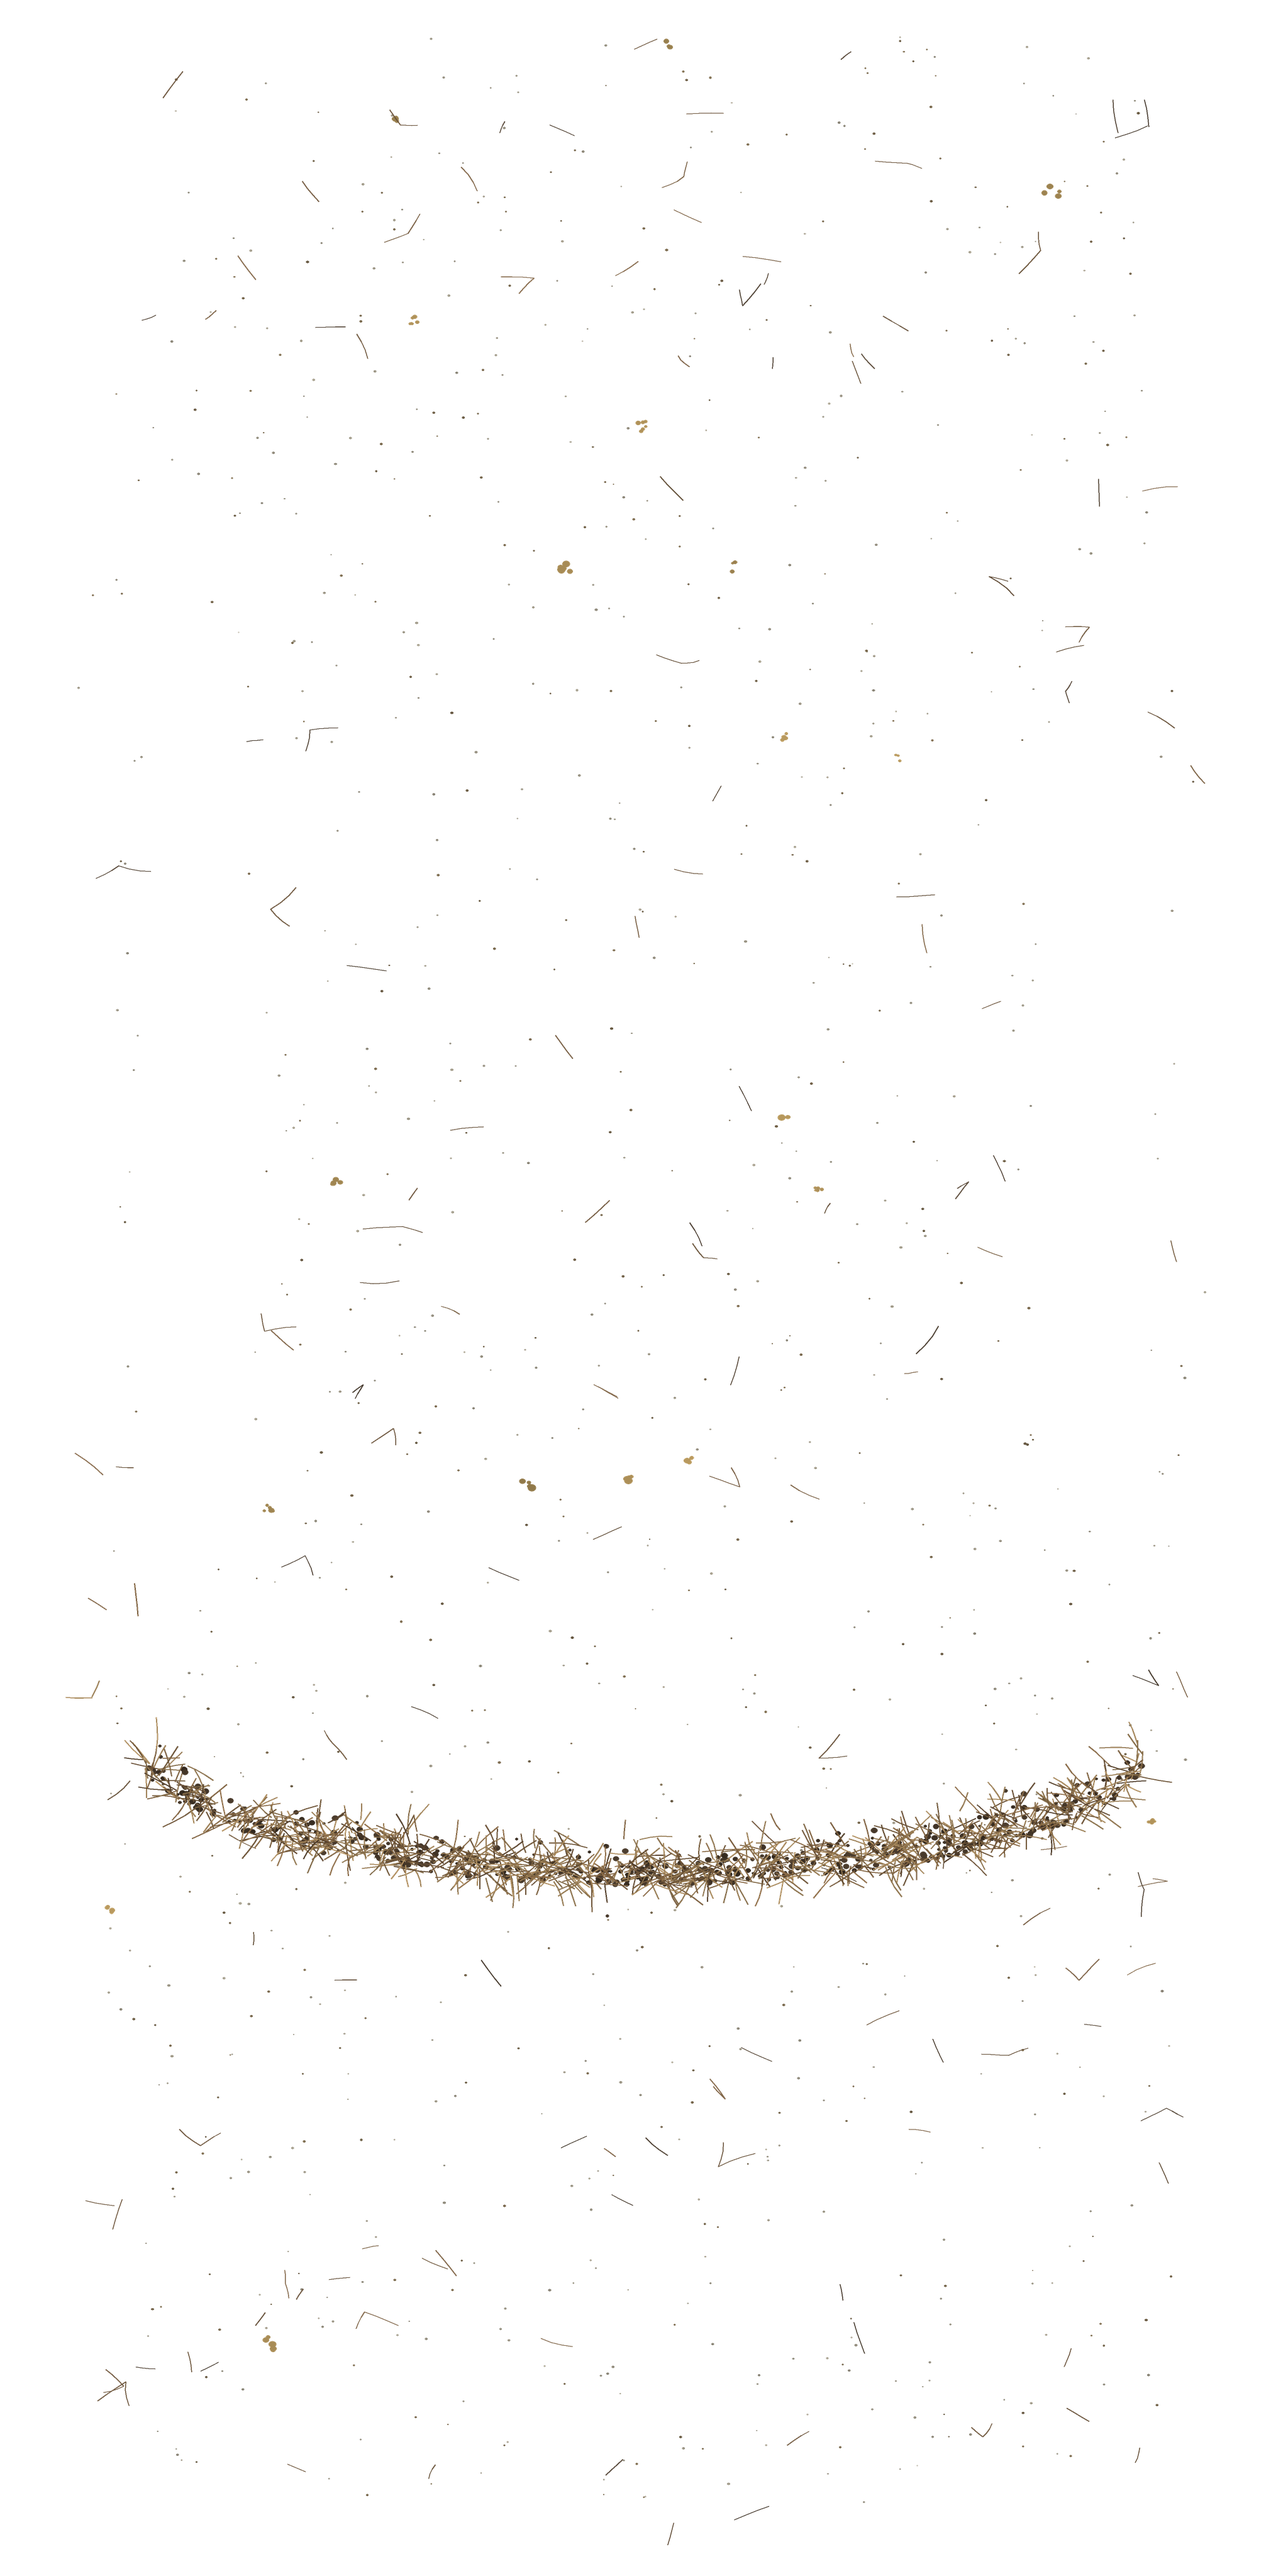
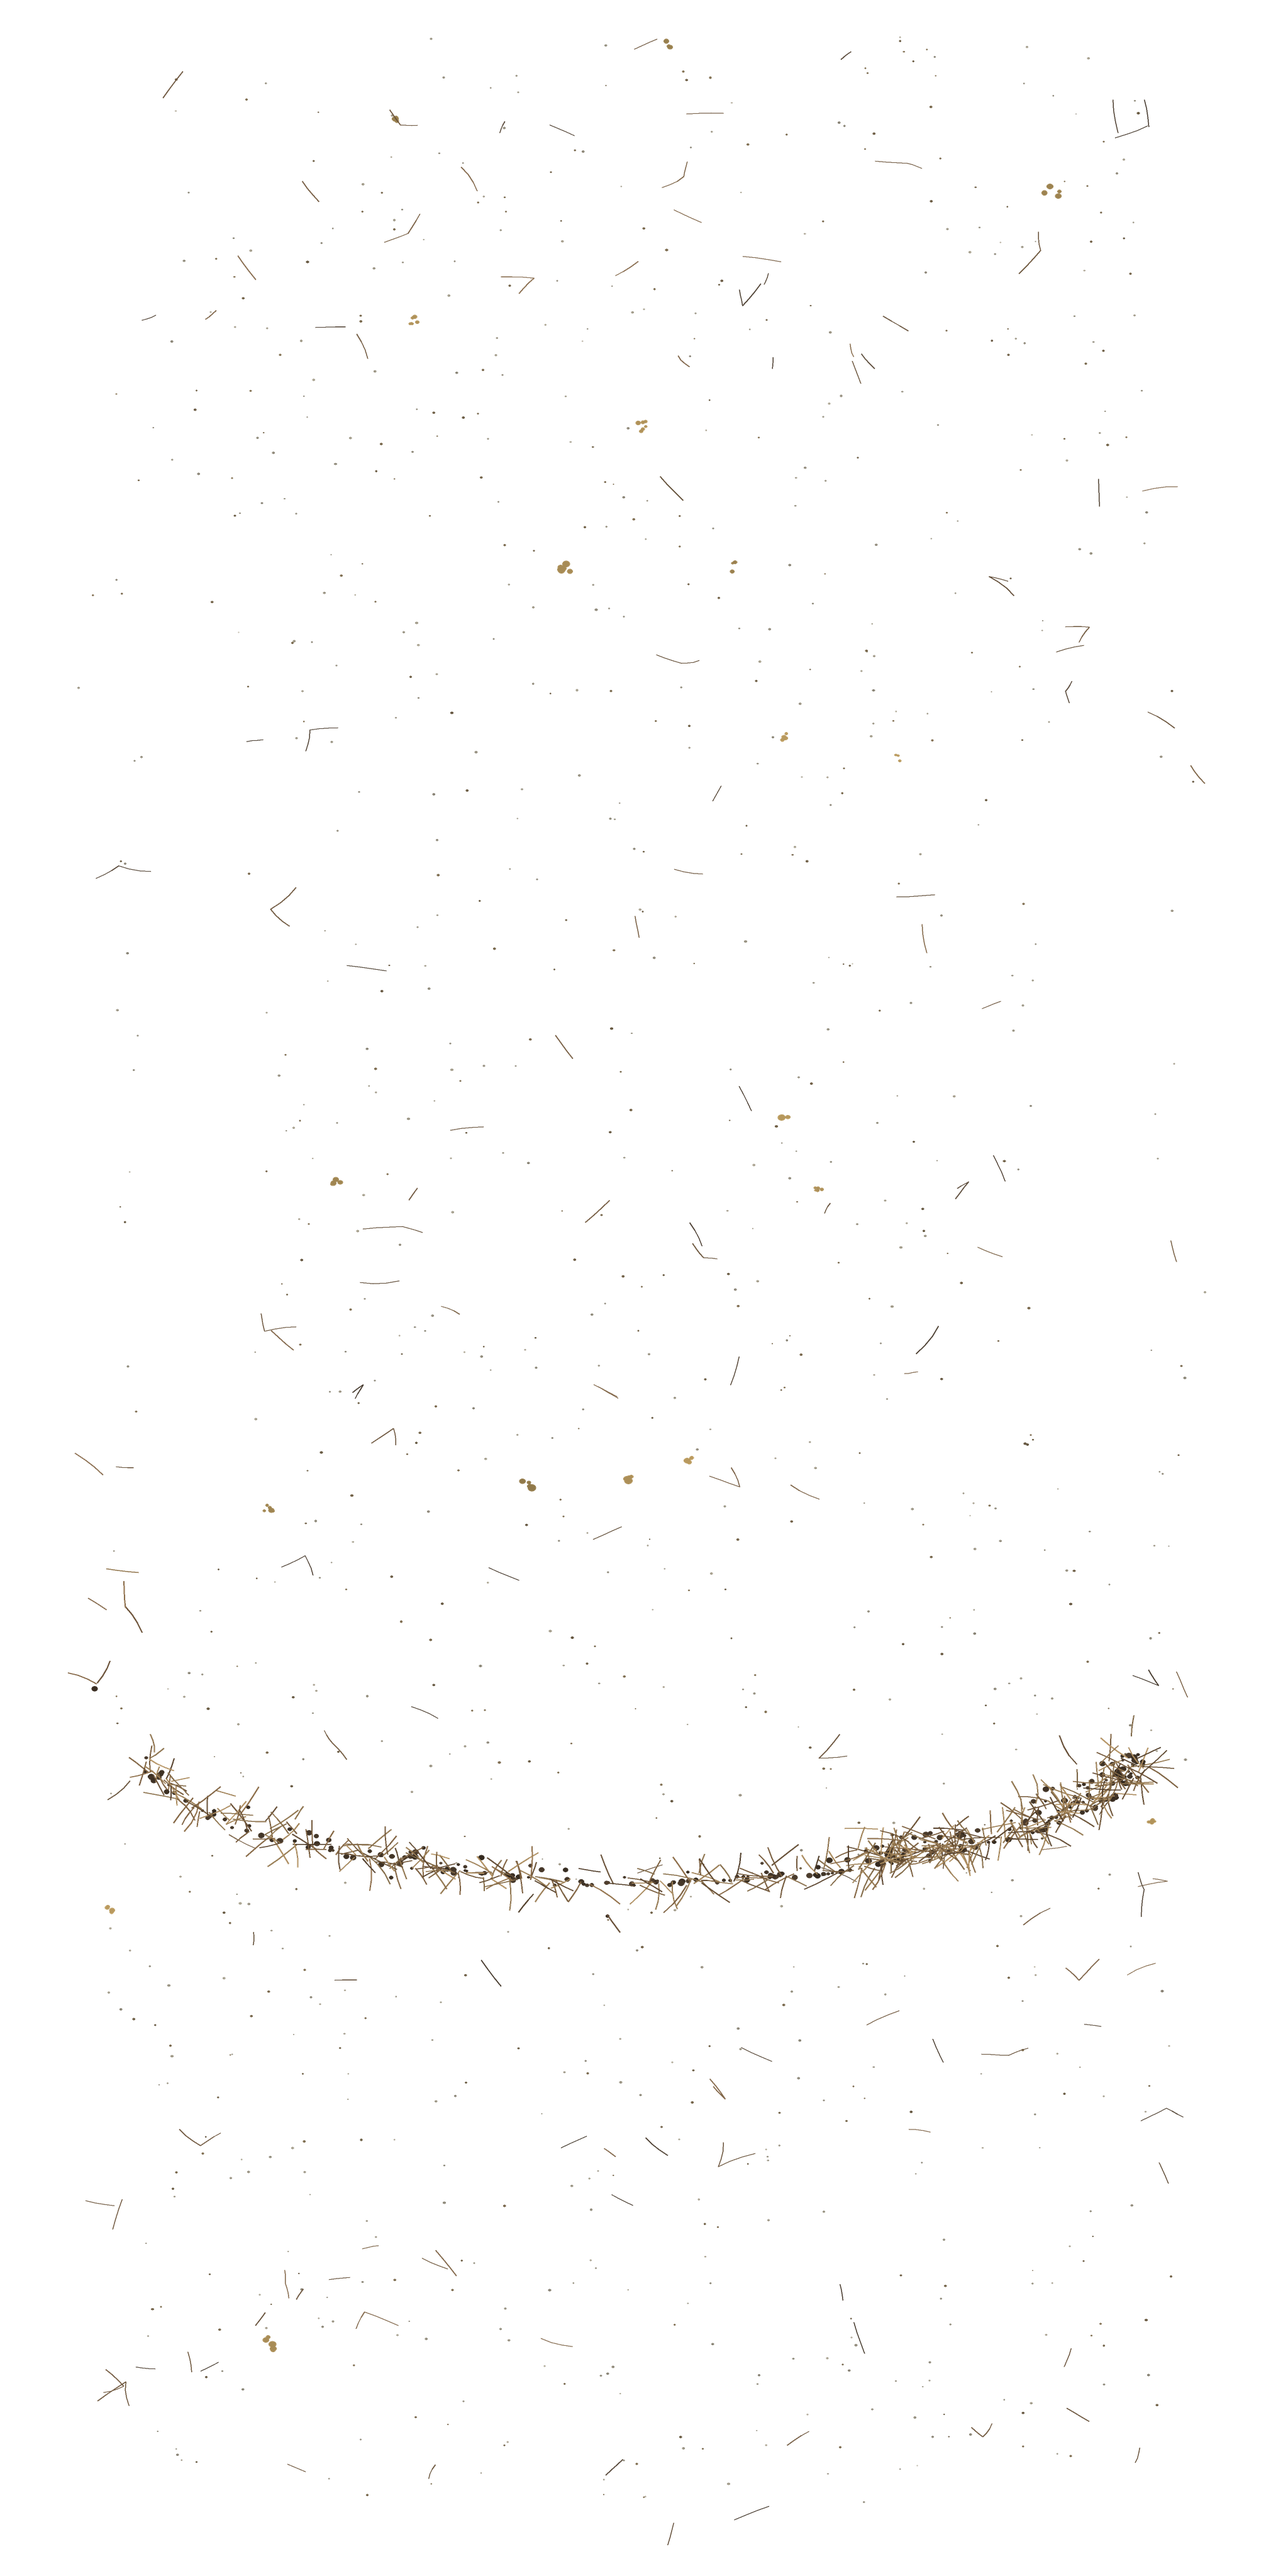
Pine skin: no stickers; needles under the windscreen pool in the corners, thinner in the middle, slightly heavier on the driver's side and in clumps

Changed region(s): [[0.125, 0.6562, 0.9062, 0.75], [0.0938, 0.6562, 0.125, 0.6875]]

diff --git a/scripts/build_video_details.py b/scripts/build_video_details.py
@@ -1458,11 +1458,14 @@ def debris_density(H, kind):
     Hs = gaussian_filter(np.where(cov, H, 0.0), 6) / np.maximum(gaussian_filter(cov.astype(float), 6), 1e-3)
     D = np.where(kind == 1, 22.0, 0.0) + np.where(kind == 2, 6.0, 0.0)
     D += 60.0 * np.clip((Hs - H) / 0.006, 0, 1) * (kind == 1)                               # panel gaps, gutters
+    # it gathers in the corners and thins out towards the middle, more on one side than the other, in clumps
+    xc = DEBRIS_BOX[0] + (np.arange(H.shape[1]) + 0.5) * DEBRIS_CELL; lump = noise((1, H.shape[1]), 9, 107)[0]
+    side = (0.10 + 1.25 * np.clip(np.abs(xc + 0.06) / 0.66, 0, 1) ** 1.8) * np.where(xc > 0, 0.74, 0.60) * (0.35 + 1.3 * lump)
     pool = (kind == 3).astype(float)                                                        # the cowl itself is all but hidden under the hood's rear edge,
     for rows, heap in ((zrow > -0.5, 1.0), (zrow < -0.5, 0.0)):                             # so the mat lies along the foot of the windscreen, round the wipers
         g = (kind == 2) & rows[:, None]; foot = np.where(g, H, np.inf).min(0); foot = np.where(np.isfinite(foot), foot, 0.0)
         lift = np.where(g, H - foot[None], 1.0)
-        pool += heap * np.exp(-(lift / 0.024) ** 2); D += np.where(g, 220.0 * np.exp(-lift / 0.012), 0.0)
+        pool += heap * side[None] * np.exp(-(lift / (0.012 + 0.016 * np.minimum(side, 1.3))[None]) ** 2); D += np.where(g, 220.0 * np.exp(-lift / 0.012), 0.0)
     return D * cov, 15000.0 * pool * cov
 
 def debris_image(W=2048, Hpx=4096, seed=103):
@@ -1510,7 +1513,7 @@ def write_skins():
     wheel_black = flat_texture((15, 15, 16)); wheel_matte = flat_texture((30, 40, 6))        # maps: little specular, broad highlight, next to no reflection
     variants = {
         'silver_176_no_stickers': ('Silver 176 - no stickers', 1, {'gh_sticker.png': clear, 'gh_number_panel.png': clear}),
-        'silver_176_pine': ('Silver 176 - pine needles and sap', 2, {'gh_debris.png': png_bytes(pine), 'MKII_Grey.png': wheel_black, 'MKIII_Grey.png': wheel_black,
+        'silver_176_pine': ('Silver 176 - pine needles and sap', 2, {'gh_sticker.png': clear, 'gh_number_panel.png': clear, 'gh_debris.png': png_bytes(pine), 'MKII_Grey.png': wheel_black, 'MKIII_Grey.png': wheel_black,
                                                                     'SSR_MKII_Map.png': wheel_matte, 'SSR_MKIII_Map.png': wheel_matte}),
     }
     out = {'needle_bundles': needles}

diff --git a/scripts/README_SCRIPTS.md b/scripts/README_SCRIPTS.md
@@ -61,7 +61,7 @@ headlight lenses with amber corners, and the broken outer end of the right tail 
 `build_video_details.py` also writes two skins next to `skins/silver_176` (the base skin: stickers, silver AVS Model 5 wheels):
 
 - `silver_176_no_stickers` - clear `gh_sticker.png` and `gh_number_panel.png` hide the window sticker and the door numbers.
-- `silver_176_pine` - `gh_debris.png` (pine needles, sap, grit) shows on `DEBRIS_LAYER`, a shell just above the top of the car that is clear in the model itself; flat
+- `silver_176_pine` - no stickers either; `gh_debris.png` (pine needles, sap, grit) shows on `DEBRIS_LAYER`, a shell just above the top of the car that is clear in the model itself; flat
   wheel textures (`MKII_Grey.png`, `MKIII_Grey.png`, `SSR_*_Map.png`) make the wheels matte black.
 
 A skin can only swap textures, so other wheel designs need their own 3D model. `preview.jpg` / `livery.png` are copied from the base skin only when missing:
